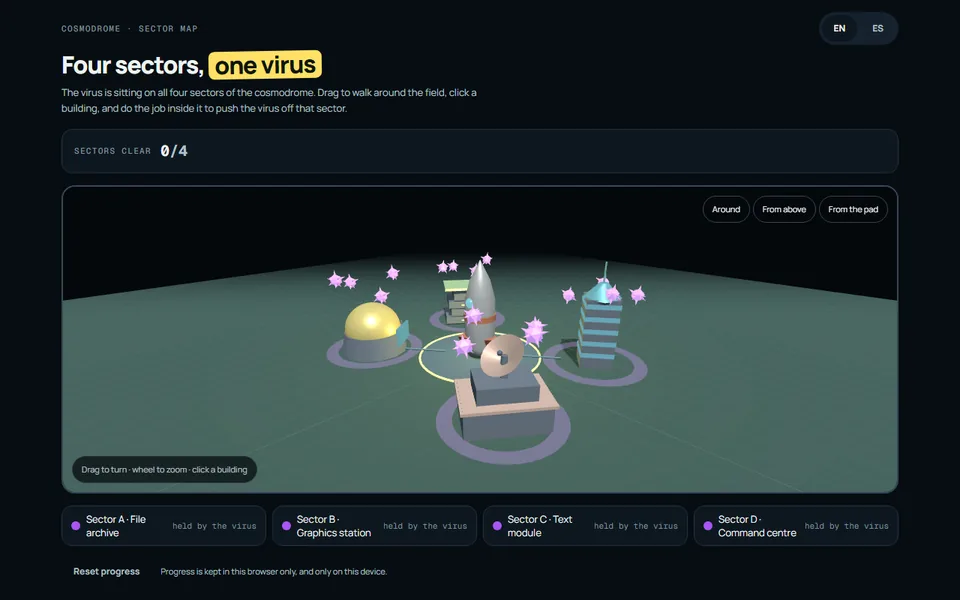
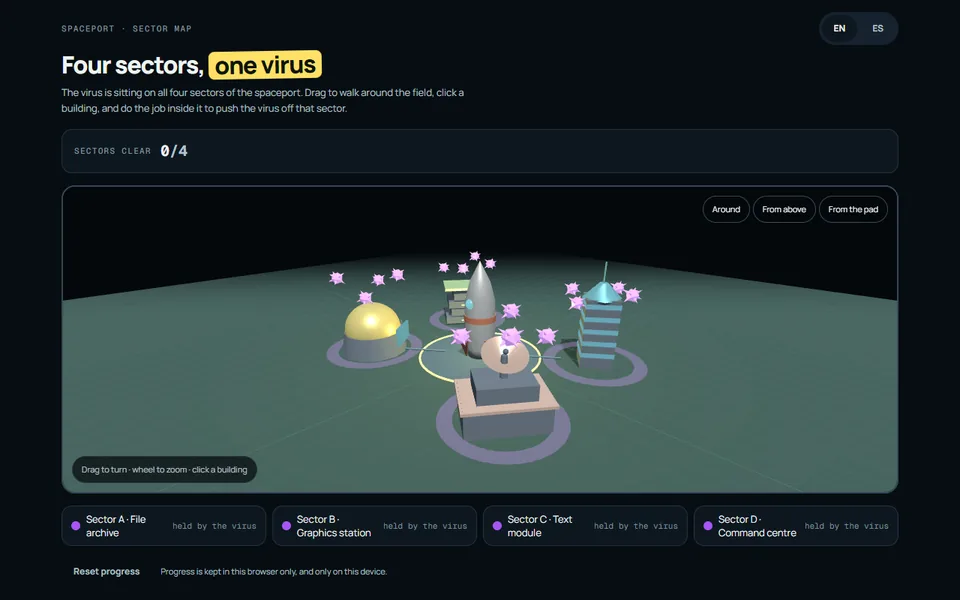
Rename three activities so the names say what they are
- "Cosmodrome" reads as a translation to an English audience; the field
  is a spaceport, on the map page, in the sector tasks and in both
  languages (ES: puerto espacial). Directory names stay so the published
  URLs keep working.
- "Four games for one small hand" -> "Motor skills: mouse control"
- "Five rooms, one fussy machine" -> "Image recognition gallery"; the
  gallery now opens with "Show it a photo. It says what it sees" instead
  of the room framing, which never said what the page does.

Previews re-shot for the two pages whose visible text changed.

diff --git a/pipeline/kids-interactives/10-cosmodrome/cosmodrome-map-3d.html b/pipeline/kids-interactives/10-cosmodrome/cosmodrome-map-3d.html
@@ -3,7 +3,7 @@
 <head>
 <meta charset="UTF-8">
 <meta name="viewport" content="width=device-width, initial-scale=1">
-<title>Cosmodrome Sector Map</title>
+<title>Spaceport Sector Map</title>
 <link rel="preconnect" href="https://fonts.googleapis.com">
 <link rel="preconnect" href="https://fonts.gstatic.com" crossorigin>
 <link rel="stylesheet" href="https://fonts.googleapis.com/css2?family=Manrope:wght@400;500;600;700;800&family=Geist+Mono:wght@400;500;700&display=swap">
@@ -676,14 +676,14 @@ a { color: var(--color-info); text-decoration-thickness: 1px; text-underline-off
 
   <header class="stack stack--tight">
     <div class="row row--between">
-      <p class="eyebrow" data-t="eyebrow">Cosmodrome · sector map</p>
+      <p class="eyebrow" data-t="eyebrow">Spaceport · sector map</p>
       <div class="langs" role="group" aria-label="Language">
         <button type="button" data-lang="en" aria-pressed="true">EN</button>
         <button type="button" data-lang="es" aria-pressed="false">ES</button>
       </div>
     </div>
     <h1><span data-t="title1">Four sectors,</span> <em class="mark" data-t="title2">one virus</em></h1>
-    <p class="lede" data-t="intro">The virus is sitting on all four sectors of the cosmodrome. Drag to walk around the field, click a building, and do the job inside it to push the virus off that sector.</p>
+    <p class="lede" data-t="intro">The virus is sitting on all four sectors of the spaceport. Drag to walk around the field, click a building, and do the job inside it to push the virus off that sector.</p>
   </header>
 
   <div class="hud">
@@ -736,7 +736,7 @@ a { color: var(--color-info); text-decoration-thickness: 1px; text-underline-off
   </section>
 
   <section class="card stack" id="won" hidden aria-live="polite">
-    <h2 data-t="wonTitle">The cosmodrome is yours again</h2>
+    <h2 data-t="wonTitle">The spaceport is yours again</h2>
     <p class="muted" data-t="wonBody">Four sectors clear, the rocket back under your control, and one very quiet virus.</p>
     <div><button class="btn btn--ghost" id="again" data-t="again">Play it again</button></div>
   </section>
@@ -803,9 +803,9 @@ a { color: var(--color-info); text-decoration-thickness: 1px; text-underline-off
         D: { head: "The dish is still taking orders from the virus. Pull the lever all the way down and hold it there.",
              action: "Pull the lever down" }
       },
-      eyebrow: "Cosmodrome · sector map",
+      eyebrow: "Spaceport · sector map",
       title1: "Four sectors,", title2: "one virus",
-      intro: "The virus is sitting on all four sectors of the cosmodrome. Drag to walk around the field, click a building, and do the job inside it to push the virus off that sector.",
+      intro: "The virus is sitting on all four sectors of the spaceport. Drag to walk around the field, click a building, and do the job inside it to push the virus off that sector.",
       clearedLabel: "Sectors clear", close: "Close",
       submit: "Drive the virus out",
       again: "Play it again", sector: "Sector",
@@ -817,16 +817,16 @@ a { color: var(--color-info); text-decoration-thickness: 1px; text-underline-off
       names: {
         A: ["File archive", "Every folder on the station was tipped out here. The robots cannot find a single thing they need."],
         B: ["Graphics station", "The colour has been drained out of the boards, and nothing on this station lights up without them."],
-        C: ["Text module", "Every message leaving the cosmodrome goes through here, and right now every one of them comes out scrambled."],
+        C: ["Text module", "Every message leaving the spaceport goes through here, and right now every one of them comes out scrambled."],
         D: ["Command centre", "The dish still turns, but it is listening to the virus. Whoever holds this room holds the launch."]
       },
       right: function (id) { return "Sector " + id + " is free."; },
       noWebgl: "This browser cannot draw 3D. Everything still works from the list below.",
-      wonTitle: "The cosmodrome is yours again",
+      wonTitle: "The spaceport is yours again",
       wonBody: "Four sectors clear, the rocket back under your control, and one very quiet virus.",
       endgame: [
         { face: "😱", line: "NO! ALL FOUR SECTORS?!", sub: "This cannot be happening…", btn: "Keep going" },
-        { face: "😈", line: "Wait. WAIT.", sub: "If I cannot have the cosmodrome, I will take the rocket!", btn: "Stop the virus" },
+        { face: "😈", line: "Wait. WAIT.", sub: "If I cannot have the spaceport, I will take the rocket!", btn: "Stop the virus" },
         { face: "😰", line: "What are you doing? Leave those wires alone!", sub: "Do not — STOP —", btn: "Cut the wires" },
         { face: "💀", line: "I am… dissolving…", sub: "Goodbyeeee…", btn: "Watch it go" }
       ]
@@ -846,9 +846,9 @@ a { color: var(--color-info); text-decoration-thickness: 1px; text-underline-off
         D: { head: "La antena sigue obedeciendo al virus. Baja la palanca del todo y mantenla ahí.",
              action: "Baja la palanca" }
       },
-      eyebrow: "Cosmódromo · mapa de sectores",
+      eyebrow: "Puerto espacial · mapa de sectores",
       title1: "Cuatro sectores,", title2: "un virus",
-      intro: "El virus está sentado en los cuatro sectores del cosmódromo. Arrastra para dar la vuelta al campo, pulsa un edificio y haz el trabajo que hay dentro para echar al virus de ese sector.",
+      intro: "El virus está sentado en los cuatro sectores del puerto espacial. Arrastra para dar la vuelta al campo, pulsa un edificio y haz el trabajo que hay dentro para echar al virus de ese sector.",
       clearedLabel: "Sectores libres", close: "Cerrar",
       submit: "Echar al virus",
       again: "Jugar otra vez", sector: "Sector",
@@ -860,16 +860,16 @@ a { color: var(--color-info); text-decoration-thickness: 1px; text-underline-off
       names: {
         A: ["Archivo de ficheros", "Aquí volcaron todas las carpetas de la estación. Los robots no encuentran nada de lo que necesitan."],
         B: ["Estación gráfica", "Le han sacado el color a las placas, y sin ellas en esta estación no se enciende nada."],
-        C: ["Módulo de texto", "Todos los mensajes que salen del cosmódromo pasan por aquí, y ahora mismo todos salen revueltos."],
+        C: ["Módulo de texto", "Todos los mensajes que salen del puerto espacial pasan por aquí, y ahora mismo todos salen revueltos."],
         D: ["Centro de mando", "La antena sigue girando, pero escucha al virus. Quien tenga esta sala tiene el lanzamiento."]
       },
       right: function (id) { return "El sector " + id + " está libre."; },
       noWebgl: "Este navegador no puede dibujar en 3D. Todo sigue funcionando desde la lista de abajo.",
-      wonTitle: "El cosmódromo vuelve a ser tuyo",
+      wonTitle: "El puerto espacial vuelve a ser tuyo",
       wonBody: "Cuatro sectores libres, el cohete otra vez bajo control y un virus muy callado.",
       endgame: [
         { face: "😱", line: "¡NO! ¿LOS CUATRO SECTORES?", sub: "Esto no puede estar pasando…", btn: "Seguir" },
-        { face: "😈", line: "Un momento. UN MOMENTO.", sub: "Si no puedo tener el cosmódromo, ¡me llevo el cohete!", btn: "Detener al virus" },
+        { face: "😈", line: "Un momento. UN MOMENTO.", sub: "Si no puedo tener el puerto espacial, ¡me llevo el cohete!", btn: "Detener al virus" },
         { face: "😰", line: "¿Qué hacéis? ¡No toquéis esos cables!", sub: "No — PARAD —", btn: "Cortar los cables" },
         { face: "💀", line: "Me… me estoy disolviendo…", sub: "Adióooos…", btn: "Verlo marchar" }
       ]

diff --git a/index.html b/index.html
@@ -2707,22 +2707,22 @@ button { font: inherit; color: inherit; background: none; border: none; cursor: 
     </article>
 
     <article class="case case--demo">
-      <img class="case-shot" src="previews/d7-cosmodrome.webp" alt="A 3D cosmodrome seen from orbit, four buildings ringed in purple with the virus sitting on each" loading="lazy" decoding="async" width="960" height="600">
-      <h3>A cosmodrome <em>held by a virus</em></h3>
+      <img class="case-shot" src="previews/d7-cosmodrome.webp" alt="A 3D spaceport seen from orbit, four buildings ringed in purple with the virus sitting on each" loading="lazy" decoding="async" width="960" height="600">
+      <h3>A spaceport <em>held by a virus</em></h3>
       <p class="case-desc">Fly round the launch field in 3D and pick a building. Each one is held until the job inside it is done, and all four ask for something different: bin the virus files without binning ours, reconnect four wires, hold a purge down while it fights back, pull a lever and keep it there.</p>
       <a class="case-cta" href="pipeline/kids-interactives/10-cosmodrome/cosmodrome-map-3d.html" target="_blank">Take the field back <span class="arrow">→</span></a>
     </article>
 
     <article class="case case--demo">
       <img class="case-shot" src="previews/d8-clicker.webp" alt="A purple match-three style game screen with four game tiles, difficulty pills and a Start button" loading="lazy" decoding="async" width="960" height="600">
-      <h3>Four games for <em>one small hand</em></h3>
+      <h3>Motor skills: <em>mouse control</em></h3>
       <p class="case-desc">Click, double-click, drag, chase. The four movements a six-year-old needs before any of the rest of a computer makes sense, each at three speeds, scored out of three stars. Dressed as a game because a drill dressed as a worksheet gets opened once.</p>
       <a class="case-cta" href="pipeline/kids-interactives/02-motor-skills/clicker-3-modes/index.html" target="_blank">Play a round <span class="arrow">→</span></a>
     </article>
 
     <article class="case case--demo">
-      <img class="case-shot" src="previews/d9-vision-rooms.webp" alt="Five empty gallery rooms, each waiting for one kind of photo, with a note about where the recogniser runs" loading="lazy" decoding="async" width="960" height="600">
-      <h3>Five rooms, one <em>fussy machine</em></h3>
+      <img class="case-shot" src="previews/d9-vision-rooms.webp" alt="A gallery page where an uploaded photo is named by a recogniser running in the browser" loading="lazy" decoding="async" width="960" height="600">
+      <h3>Image recognition, <em>in the browser</em></h3>
       <p class="case-desc">Hang a photo in a room and a machine says what it thinks it sees, then decides whether it belongs. The recogniser is MobileNet running inside the page: no key, no account, and no photo ever leaves the computer. It shows its guesses and the score it judged on, so a child can see why it said no.</p>
       <a class="case-cta" href="pipeline/kids-interactives/09-vision-ai/nova-vision-gallery/nova-vision-gallery.html" target="_blank">Hang a photo <span class="arrow">→</span></a>
     </article>

diff --git a/pipeline/kids-interactives/09-vision-ai/nova-vision-gallery/nova-vision-gallery.html b/pipeline/kids-interactives/09-vision-ai/nova-vision-gallery/nova-vision-gallery.html
@@ -3,7 +3,7 @@
 <head>
 <meta charset="UTF-8">
 <meta name="viewport" content="width=device-width, initial-scale=1">
-<title>Nova's Photo Gallery</title>
+<title>Image recognition gallery</title>
 <link rel="preconnect" href="https://fonts.googleapis.com">
 <link rel="preconnect" href="https://fonts.gstatic.com" crossorigin>
 <link rel="stylesheet" href="https://fonts.googleapis.com/css2?family=Manrope:wght@400;500;600;700;800&family=Geist+Mono:wght@400;500;700&display=swap">
@@ -598,7 +598,7 @@ a { color: var(--color-info); text-decoration-thickness: 1px; text-underline-off
         <button type="button" data-lang="es" aria-pressed="false">ES</button>
       </div>
     </div>
-    <h1><span data-t="title1">Five empty rooms.</span> <em class="mark" data-t="title2">Hang the right photo</em></h1>
+    <h1><span data-t="title1">Show it a photo.</span> <em class="mark" data-t="title2">It says what it sees</em></h1>
     <p class="lede" data-t="intro">Each room takes one kind of photo. Put a picture in the frame and a machine looks at it, says what it thinks it sees, and decides whether it belongs in that room.</p>
   </header>
 
@@ -745,7 +745,7 @@ a { color: var(--color-info); text-decoration-thickness: 1px; text-underline-off
   var T = {
     en: {
       eyebrow: "Vision AI · gallery",
-      title1: "Five empty rooms.", title2: "Hang the right photo",
+      title1: "Show it a photo.", title2: "It says what it sees",
       intro: "Each room takes one kind of photo. Put a picture in the frame and a machine looks at it, says what it thinks it sees, and decides whether it belongs in that room.",
       setupTitle: "Where the machine lives",
       setupBody: "The recogniser is not a website you send photos to. It is a 14 MB file that downloads once and then runs inside this page, on your own machine. Your photos never leave the computer, and there is no key and no account.",
@@ -777,7 +777,7 @@ a { color: var(--color-info); text-decoration-thickness: 1px; text-underline-off
     },
     es: {
       eyebrow: "IA de visión · galería",
-      title1: "Cinco salas vacías.", title2: "Cuelga la foto correcta",
+      title1: "Enséñale una foto.", title2: "Dice lo que ve",
       intro: "Cada sala admite un tipo de foto. Pon una imagen en el marco y una máquina la mira, dice qué cree que ve y decide si encaja en esa sala.",
       setupTitle: "Dónde vive la máquina",
       setupBody: "El reconocedor no es una web a la que mandas fotos. Es un archivo de 14 MB que se descarga una vez y luego funciona dentro de esta página, en tu propio ordenador. Tus fotos no salen de ahí, y no hace falta ni clave ni cuenta.",

diff --git a/pipeline/kids-interactives/index.html b/pipeline/kids-interactives/index.html
@@ -605,7 +605,7 @@ a { color: var(--color-info); text-decoration-thickness: 1px; text-underline-off
 <div class="wrap wrap--wide stack stack--loose">
 
   <header class="stack stack--tight">
-    <a class="back" href="../../">
+    <a class="back" href="../tasks/worlds-kids-build.html">
       <svg viewBox="0 0 24 24" fill="none" stroke="currentColor" stroke-width="2.2" stroke-linecap="round" stroke-linejoin="round" aria-hidden="true">
         <path d="M19 12H5"/><path d="M12 19l-7-7 7-7"/>
       </svg>
@@ -630,16 +630,16 @@ a { color: var(--color-info); text-decoration-thickness: 1px; text-underline-off
        broken — known missing assets, listed so it is not forgotten          */
   const GROUPS = [
     { id: "cosmo", num: "01", name: "Showpieces", items: [
-      { name: "The station from orbit", path: "10-cosmodrome/cosmodrome-map-3d.html", status: "done",
+      { name: "The spaceport from orbit", path: "10-cosmodrome/cosmodrome-map-3d.html", status: "done",
         what: "Fly around the launch field, look at the buildings, pick a sector to work on. Everything else in the quest hangs off this page.",
         meta: ["EN · ES", "three.js, bundled"] },
       { name: "Take a page apart", path: "06-interactive-sites/htmlcssjs-visual-examples/lesson3-foundations.html", status: "done",
         what: "Switch CSS off and the card really loses its styling; switch JavaScript off and the button stops answering.",
         meta: ["EN · ES", "Ages 10–13"] },
-      { name: "Five rooms, one fussy machine", path: "09-vision-ai/nova-vision-gallery/nova-vision-gallery.html", status: "done",
+      { name: "Image recognition gallery", path: "09-vision-ai/nova-vision-gallery/nova-vision-gallery.html", status: "done",
         what: "Hang a photo in a room and a machine looks at it, says what it thinks it sees, and decides whether it belongs there. The recogniser is a neural network running in the page itself, so no photo ever leaves the computer.",
         meta: ["EN · ES", "Runs on your device"] },
-      { name: "Clicker", path: "02-motor-skills/clicker-3-modes/index.html", status: "done",
+      { name: "Motor skills: mouse control", path: "02-motor-skills/clicker-3-modes/index.html", status: "done",
         what: "Click once, click twice, drag something across, catch what is moving. Four small games for the hand, three speeds each.",
         meta: ["EN · ES", "Ages 6–9"] }
     ]},

diff --git a/pipeline/kids-interactives/01-interface-simulators/html-editor-find-replace/task-c3.html b/pipeline/kids-interactives/01-interface-simulators/html-editor-find-replace/task-c3.html
@@ -823,7 +823,7 @@ a { color: var(--color-info); text-decoration-thickness: 1px; text-underline-off
 
   <header class="stack stack--tight">
     <div class="row row--between">
-      <p class="eyebrow" data-t="eyebrow">Cosmodrome · sector C · task 3</p>
+      <p class="eyebrow" data-t="eyebrow">Spaceport · sector C · task 3</p>
       <div class="langs" role="group" aria-label="Language">
         <button type="button" data-lang="en" aria-pressed="true">EN</button>
         <button type="button" data-lang="es" aria-pressed="false">ES</button>
@@ -1000,7 +1000,7 @@ a { color: var(--color-info); text-decoration-thickness: 1px; text-underline-off
       mFile: "File", mEdit: "Edit", mView: "View", mInsert: "Insert",
       mFormat: "Format", mTools: "Tools", mHelp: "Help",
       normalText: "Normal text", docWords: "Mission report", docPages: "Page 1 of 1",
-      eyebrow: "Cosmodrome · sector C · task 3",
+      eyebrow: "Spaceport · sector C · task 3",
       title1: "Nobody can read", title2: "this report yet",
       intro: "Mission Control will only accept a report that is formatted properly. First a few questions to check you can spot formatting, then the report itself: select a line, press a button on the toolbar, and the list ticks itself as you go.",
       doneLabel: "Formatting done", todoLabel: "What Mission Control wants",
@@ -1035,7 +1035,7 @@ a { color: var(--color-info); text-decoration-thickness: 1px; text-underline-off
       mFile: "Archivo", mEdit: "Editar", mView: "Ver", mInsert: "Insertar",
       mFormat: "Formato", mTools: "Herramientas", mHelp: "Ayuda",
       normalText: "Texto normal", docWords: "Informe de misión", docPages: "Página 1 de 1",
-      eyebrow: "Cosmódromo · sector C · tarea 3",
+      eyebrow: "Puerto espacial · sector C · tarea 3",
       title1: "Nadie puede leer", title2: "todavía este informe",
       intro: "El Control de Misión solo acepta informes bien formateados. Primero unas preguntas para ver si reconoces el formato, y luego el informe: selecciona una línea, pulsa un botón de la barra y la lista se marca sola.",
       doneLabel: "Formato hecho", todoLabel: "Lo que pide el Control de Misión",

diff --git a/pipeline/kids-interactives/01-interface-simulators/html-editor-find-replace/task-c1.html b/pipeline/kids-interactives/01-interface-simulators/html-editor-find-replace/task-c1.html
@@ -826,7 +826,7 @@ a { color: var(--color-info); text-decoration-thickness: 1px; text-underline-off
 
   <header class="stack stack--tight">
     <div class="row row--between">
-      <p class="eyebrow" data-t="eyebrow">Cosmodrome · sector C · task 1</p>
+      <p class="eyebrow" data-t="eyebrow">Spaceport · sector C · task 1</p>
       <div class="langs" role="group" aria-label="Language">
         <button type="button" data-lang="en" aria-pressed="true">EN</button>
         <button type="button" data-lang="es" aria-pressed="false">ES</button>
@@ -976,7 +976,7 @@ a { color: var(--color-info); text-decoration-thickness: 1px; text-underline-off
       mFormat: "Format", mTools: "Tools", mHelp: "Help",
       normalText: "Normal text", matchCase: "Match case",
       replaceOne: "Replace", docPages: "Page 1 of 1",
-      eyebrow: "Cosmodrome · sector C · task 1",
+      eyebrow: "Spaceport · sector C · task 1",
       title1: "The message came through", title2: "scrambled",
       intro: "Five words are misspelled and the launch year is wrong. Use find and replace instead of retyping: put the wrong word on the left, the right one on the right, and press Replace all.",
       triesLabel: "Checks left", fixedLabel: "Fixed", findLabel: "Find and replace",
@@ -1008,7 +1008,7 @@ a { color: var(--color-info); text-decoration-thickness: 1px; text-underline-off
       mFormat: "Formato", mTools: "Herramientas", mHelp: "Ayuda",
       normalText: "Texto normal", matchCase: "Coincidir mayúsculas",
       replaceOne: "Reemplazar", docPages: "Página 1 de 1",
-      eyebrow: "Cosmódromo · sector C · tarea 1",
+      eyebrow: "Puerto espacial · sector C · tarea 1",
       title1: "El mensaje llegó", title2: "con errores",
       intro: "Cinco palabras están mal escritas y el año de lanzamiento es imposible. Usa buscar y reemplazar en vez de escribirlo todo otra vez: la palabra mal a la izquierda, la correcta a la derecha, y pulsa Reemplazar todo.",
       triesLabel: "Revisiones", fixedLabel: "Corregidos", findLabel: "Buscar y reemplazar",

diff --git a/pipeline/kids-interactives/01-interface-simulators/html-editor-find-replace/task-d1.html b/pipeline/kids-interactives/01-interface-simulators/html-editor-find-replace/task-d1.html
@@ -807,7 +807,7 @@ a { color: var(--color-info); text-decoration-thickness: 1px; text-underline-off
 
   <header class="stack stack--tight">
     <div class="row row--between">
-      <p class="eyebrow" data-t="eyebrow">Cosmodrome · sector D · task 1</p>
+      <p class="eyebrow" data-t="eyebrow">Spaceport · sector D · task 1</p>
       <div class="langs" role="group" aria-label="Language">
         <button type="button" data-lang="en" aria-pressed="true">EN</button>
         <button type="button" data-lang="es" aria-pressed="false">ES</button>
@@ -959,7 +959,7 @@ a { color: var(--color-info); text-decoration-thickness: 1px; text-underline-off
       deckState: "Four slides, exactly as they came",
       addText: "Click to add text", addImage: "The picture is missing",
       slideOf: function (n, all) { return "Slide " + n + " of " + all; },
-      eyebrow: "Cosmodrome · sector D · task 1",
+      eyebrow: "Spaceport · sector D · task 1",
       title1: "The deck is in", title2: "the wrong order",
       intro: "Download the mission deck, fix it in whatever slide program you use, and bring it back here. This page opens the file and checks it slide by slide. Nothing is uploaded anywhere.",
       step1: "Take the files",
@@ -996,7 +996,7 @@ a { color: var(--color-info); text-decoration-thickness: 1px; text-underline-off
       deckState: "Cuatro diapositivas, tal como llegaron",
       addText: "Haz clic para añadir texto", addImage: "Falta la imagen",
       slideOf: function (n, all) { return "Diapositiva " + n + " de " + all; },
-      eyebrow: "Cosmódromo · sector D · tarea 1",
+      eyebrow: "Puerto espacial · sector D · tarea 1",
       title1: "La presentación está", title2: "en mal orden",
       intro: "Descarga la presentación, arréglala en el programa de diapositivas que uses y tráela de vuelta aquí. Esta página abre el archivo y lo revisa diapositiva a diapositiva: no se sube a ningún sitio.",
       step1: "Llévate los archivos",

diff --git a/pipeline/kids-interactives/03-drag-and-drop/cosmodrome-virus/task-a3.html b/pipeline/kids-interactives/03-drag-and-drop/cosmodrome-virus/task-a3.html
@@ -591,7 +591,7 @@ a { color: var(--color-info); text-decoration-thickness: 1px; text-underline-off
 
   <header class="stack stack--tight">
     <div class="row row--between">
-      <p class="eyebrow" data-t="eyebrow">Cosmodrome · sector A · task 3</p>
+      <p class="eyebrow" data-t="eyebrow">Spaceport · sector A · task 3</p>
       <div class="langs" role="group" aria-label="Language">
         <button type="button" data-lang="en" aria-pressed="true">EN</button>
         <button type="button" data-lang="es" aria-pressed="false">ES</button>
@@ -683,7 +683,7 @@ a { color: var(--color-info); text-decoration-thickness: 1px; text-underline-off
 
   var T = {
     en: {
-      eyebrow: "Cosmodrome · sector A · task 3",
+      eyebrow: "Spaceport · sector A · task 3",
       title1: "Put the folders", title2: "back in order",
       intro: "The virus tipped the Mars mission folders out of their tree. The empty slots keep the old shape: the further a slot is indented, the deeper inside it sits. Tap a folder, then tap the slot it belongs in.",
       triesLabel: "Tries left", placedLabel: "Placed", poolLabel: "Folders to place",
@@ -706,7 +706,7 @@ a { color: var(--color-info); text-decoration-thickness: 1px; text-underline-off
       lostBody: "Two folders sit directly inside Mission_Mars: the people and the ship. Everything else goes inside one of those."
     },
     es: {
-      eyebrow: "Cosmódromo · sector A · tarea 3",
+      eyebrow: "Puerto espacial · sector A · tarea 3",
       title1: "Devuelve las carpetas", title2: "a su sitio",
       intro: "El virus tiró las carpetas de la misión a Marte fuera de su árbol. Los huecos vacíos conservan la forma antigua: cuanto más a la derecha está un hueco, más adentro va. Toca una carpeta y luego el hueco que le toca.",
       triesLabel: "Intentos", placedLabel: "Colocadas", poolLabel: "Carpetas por colocar",

diff --git a/pipeline/kids-interactives/01-interface-simulators/html-editor-find-replace/task-c2.html b/pipeline/kids-interactives/01-interface-simulators/html-editor-find-replace/task-c2.html
@@ -567,7 +567,7 @@ a { color: var(--color-info); text-decoration-thickness: 1px; text-underline-off
 
   <header class="stack stack--tight">
     <div class="row row--between">
-      <p class="eyebrow" data-t="eyebrow">Cosmodrome · sector C · task 2</p>
+      <p class="eyebrow" data-t="eyebrow">Spaceport · sector C · task 2</p>
       <div class="langs" role="group" aria-label="Language">
         <button type="button" data-lang="en" aria-pressed="true">EN</button>
         <button type="button" data-lang="es" aria-pressed="false">ES</button>
@@ -638,7 +638,7 @@ a { color: var(--color-info); text-decoration-thickness: 1px; text-underline-off
 
   var T = {
     en: {
-      eyebrow: "Cosmodrome · sector C · task 2",
+      eyebrow: "Spaceport · sector C · task 2",
       title1: "The station stopped", title2: "writing in words",
       intro: "The station writes its secrets in symbols. The key below gives the letter for each one. Read the symbols left to right and type the word. One symbol in the key is never used.",
       triesLabel: "Tries left", decodedLabel: "Decoded", keyLabel: "The key",
@@ -668,7 +668,7 @@ a { color: var(--color-info); text-decoration-thickness: 1px; text-underline-off
       lostBody: "The first word has four symbols and names a planet. The second has five and is what happens at the end of a countdown."
     },
     es: {
-      eyebrow: "Cosmódromo · sector C · tarea 2",
+      eyebrow: "Puerto espacial · sector C · tarea 2",
       title1: "La estación dejó", title2: "de escribir con letras",
       intro: "La estación escribe sus secretos con símbolos. La clave de abajo da la letra de cada uno: lee los símbolos de izquierda a derecha y escribe la palabra. Un símbolo de la clave no se usa nunca.",
       triesLabel: "Intentos", decodedLabel: "Descifrados", keyLabel: "La clave",

diff --git a/pipeline/kids-interactives/03-drag-and-drop/cosmodrome-virus/task-b1.html b/pipeline/kids-interactives/03-drag-and-drop/cosmodrome-virus/task-b1.html
@@ -591,7 +591,7 @@ a { color: var(--color-info); text-decoration-thickness: 1px; text-underline-off
 
   <header class="stack stack--tight">
     <div class="row row--between">
-      <p class="eyebrow" data-t="eyebrow">Cosmodrome · sector B</p>
+      <p class="eyebrow" data-t="eyebrow">Spaceport · sector B</p>
       <div class="langs" role="group" aria-label="Language">
         <button type="button" data-lang="en" aria-pressed="true">EN</button>
         <button type="button" data-lang="es" aria-pressed="false">ES</button>
@@ -722,7 +722,7 @@ a { color: var(--color-info); text-decoration-thickness: 1px; text-underline-off
 
   var T = {
     en: {
-      eyebrow: "Cosmodrome · sector B",
+      eyebrow: "Spaceport · sector B",
       title1: "The virus took", title2: "the colours away",
       intro: "Every part on the board went grey. The chart on the left says which colour each numbered one should be: pick a colour, then tap the part. Get the small board right and a bigger one comes up.",
       boardLabel: "Board", triesLabel: "Tries left", nowLabel: "Holding",
@@ -747,7 +747,7 @@ a { color: var(--color-info); text-decoration-thickness: 1px; text-underline-off
       lostBody: "The chart is the answer. On the small board: 1 red, 2 blue, 3 yellow, 4 green. On the big one the chart is a rainbow in order."
     },
     es: {
-      eyebrow: "Cosmódromo · sector B",
+      eyebrow: "Puerto espacial · sector B",
       title1: "El virus se llevó", title2: "los colores",
       intro: "Todas las piezas de la placa se quedaron grises. El esquema de la izquierda dice de qué color va cada una: elige un color y toca la pieza. Acierta la placa pequeña y saldrá otra más grande.",
       boardLabel: "Placa", triesLabel: "Intentos", nowLabel: "En la mano",

diff --git a/pipeline/kids-interactives/03-drag-and-drop/cosmodrome-virus/task-b3.html b/pipeline/kids-interactives/03-drag-and-drop/cosmodrome-virus/task-b3.html
@@ -593,7 +593,7 @@ a { color: var(--color-info); text-decoration-thickness: 1px; text-underline-off
 
   <header class="stack stack--tight">
     <div class="row row--between">
-      <p class="eyebrow" data-t="eyebrow">Cosmodrome · sector B · task 3</p>
+      <p class="eyebrow" data-t="eyebrow">Spaceport · sector B · task 3</p>
       <div class="langs" role="group" aria-label="Language">
         <button type="button" data-lang="en" aria-pressed="true">EN</button>
         <button type="button" data-lang="es" aria-pressed="false">ES</button>
@@ -699,7 +699,7 @@ a { color: var(--color-info); text-decoration-thickness: 1px; text-underline-off
 
   var T = {
     en: {
-      eyebrow: "Cosmodrome · sector B · task 3",
+      eyebrow: "Spaceport · sector B · task 3",
       title1: "Copy the rocket,", title2: "square by square",
       intro: "The small picture on the left is the plan. Copy it onto the big grid: pick a colour, then paint. Drag across squares to fill a row quickly.",
       matchLabel: "Matching squares", nowLabel: "Holding", planLabel: "The plan",
@@ -717,7 +717,7 @@ a { color: var(--color-info); text-decoration-thickness: 1px; text-underline-off
       wonBody: "The rocket is drawn exactly as planned."
     },
     es: {
-      eyebrow: "Cosmódromo · sector B · tarea 3",
+      eyebrow: "Puerto espacial · sector B · tarea 3",
       title1: "Copia el cohete,", title2: "cuadro a cuadro",
       intro: "El dibujo pequeño de la izquierda es el plano. Cópialo en la cuadrícula grande: elige un color y pinta. Arrastra por los cuadros para llenar una fila rápido.",
       matchLabel: "Cuadros correctos", nowLabel: "En la mano", planLabel: "El plano",

diff --git a/pipeline/kids-interactives/03-drag-and-drop/file-kingdom/index.html b/pipeline/kids-interactives/03-drag-and-drop/file-kingdom/index.html
@@ -656,7 +656,7 @@ a { color: var(--color-info); text-decoration-thickness: 1px; text-underline-off
     } catch (err) {}
   }
 
-  /* Level three came from a separate page in the cosmodrome quest: three
+  /* Level three came from a separate page in the spaceport quest: three
      characters, and files that belong to whoever does that job. Same exercise,
      recast into this page's fiction so the castle does not suddenly fill with
      robots. The 2-2-2 split is the original: guessing cannot land on a shape
